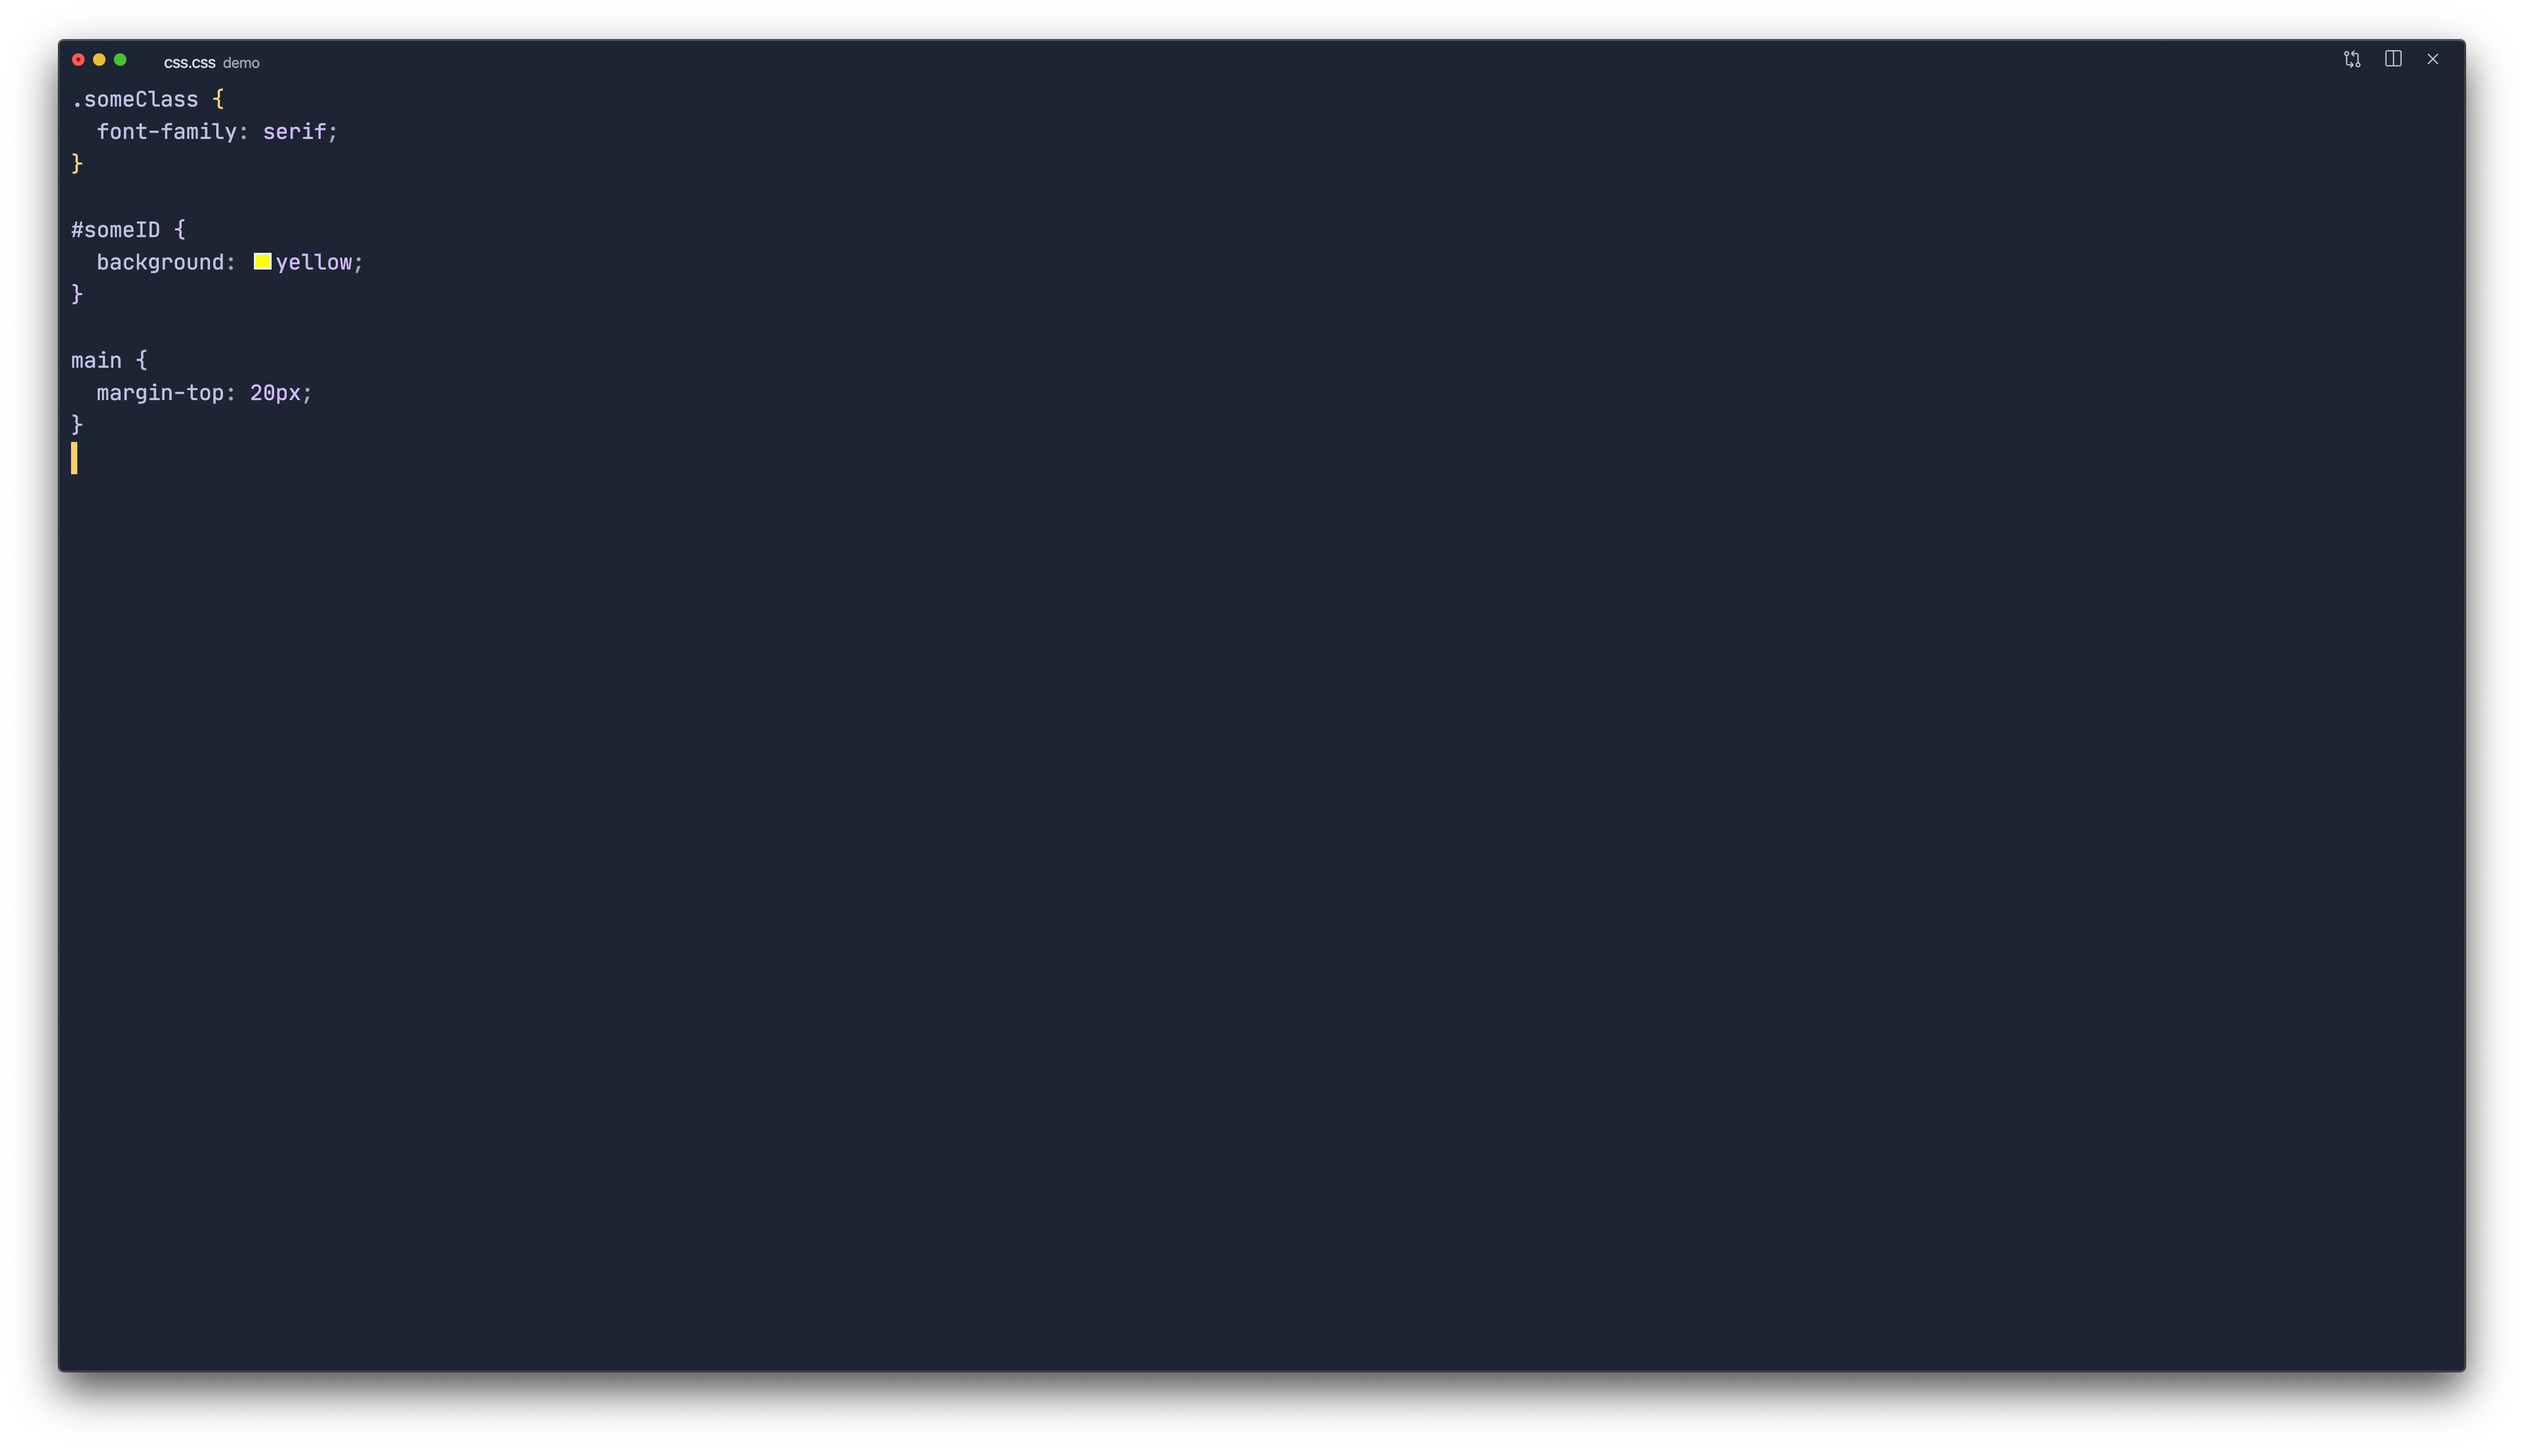
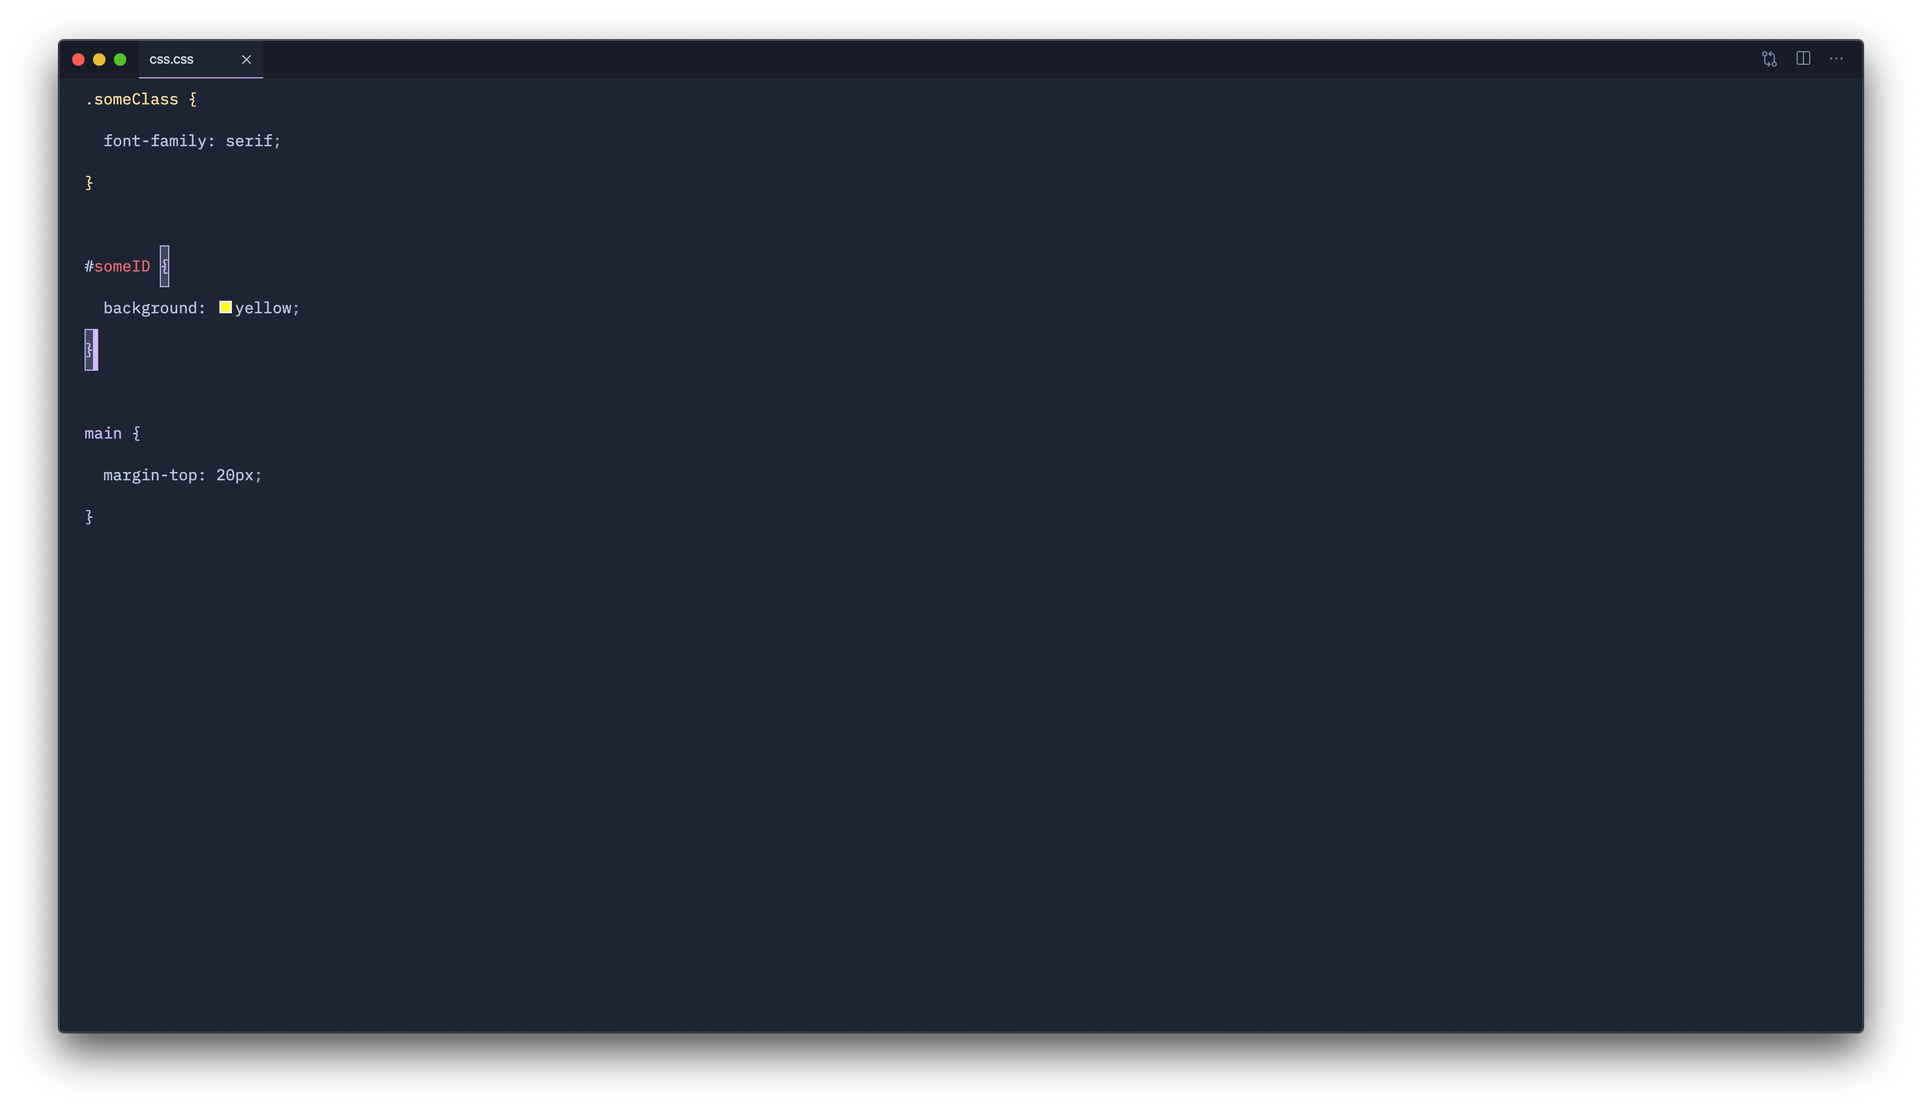
1.5.3

Changed region(s): [[0.0, 0.0, 1.0, 0.9934], [0.0625, 0.4036, 0.125, 0.4346]]

diff --git a/demo/statelessfunctionalreact.js b/demo/statelessfunctionalreact.js
@@ -1,21 +1,25 @@
 // I use this syntax when my component fits on one line
-const ListItem = props => <li className="list-item">{props.item.name}</li>
+const ListItem = (props) => <li className="list-item">{props.item.name}</li>;
 
 // I use this when my component has no logic outside JSX
 const List = ({ items }) => (
-  <ul className="list">{items.map(item => <ListItem item={item} />)}</ul>
-)
+  <ul className="list">
+    {items.map((item) => (
+      <ListItem item={item} />
+    ))}
+  </ul>
+);
 
 // I use this when the component needs logic outside JSX.
-const Body = props => {
-  let items = transformItems(props.rawItems)
+const Body = (props) => {
+  let items = transformItems(props.rawItems);
   return (
     <div>
       <h1>{props.header}</h1>
       <List items={items} />
     </div>
-  )
-}
+  );
+};
 
 // This is equivalent to the last example
 function Page(props, context) {
@@ -23,9 +27,9 @@ function Page(props, context) {
     <div>
       <Body header="My List" rawItems={props.rawItems} />
     </div>
-  )
+  );
 }
 // propTypes and contextTypes are supported
 Page.propTypes = {
-  rawItems: React.PropTypes.array.isRequired
-}
+  rawItems: React.PropTypes.array.isRequired,
+};

diff --git a/demo/react.js b/demo/react.js
@@ -1,8 +1,8 @@
-import React, { useState, useCallback } from 'react';
-import calculate from '../logic/calculate';
-import './App.css';
-import ButtonPanel from './ButtonPanel';
-import Display from './Display';
+import React, { useState, useCallback } from "react";
+import calculate from "../logic/calculate";
+import "./App.css";
+import ButtonPanel from "./ButtonPanel";
+import Display from "./Display";
 
 function App() {
   const [state, setState] = useState({
@@ -12,16 +12,16 @@ function App() {
   });
 
   const handleClick = useCallback(
-    buttonName => {
-      setState(state => calculate(state, buttonName));
+    (buttonName) => {
+      setState((state) => calculate(state, buttonName));
     },
-    [setState],
+    [setState]
   );
 
   return (
     <div className="component-app">
       Tacos
-      <Display value={state.next || state.total || '0'} />
+      <Display value={state.next || state.total || "0"} />
       <ButtonPanel clickHandler={handleClick} />
     </div>
   );

diff --git a/demo/html.html b/demo/html.html
@@ -3,8 +3,14 @@
 
 <head>
   <meta charset="UTF-8">
-  <meta name="viewport" content="width=device-width, initial-scale=1.0">
-  <meta http-equiv="X-UA-Compatible" content="ie=edge">
+  <meta
+    name="viewport"
+    content="width=device-width, initial-scale=1.0"
+  >
+  <meta
+    http-equiv="X-UA-Compatible"
+    content="ie=edge"
+  >
   <title>Document</title>
 </head>
 

diff --git a/README.md b/README.md
@@ -5,7 +5,10 @@ Subtlety with bright highlights
 ## Screenshots
 
 ![React](https://raw.githubusercontent.com/cevr/aeon/master/screenshots/react.png)
+![React Italic](https://raw.githubusercontent.com/cevr/aeon/master/screenshots/react-italic.png)
 
 ![HTML](https://raw.githubusercontent.com/cevr/aeon/master/screenshots/html.png)
+![HTML Italic](https://raw.githubusercontent.com/cevr/aeon/master/screenshots/html-italic.png)
 
-![Css](https://raw.githubusercontent.com/cevr/aeon/master/screenshots/css.png)
+![CSS](https://raw.githubusercontent.com/cevr/aeon/master/screenshots/css.png)
+![CSS Italic](https://raw.githubusercontent.com/cevr/aeon/master/screenshots/css-italic.png)

diff --git a/CHANGELOG.md b/CHANGELOG.md
@@ -2,6 +2,11 @@
 
 All notable changes to the "overnight" extension will be documented in this file.
 
+## [1.5.3]
+
+- update screenshots
+- tweak css token colors
+
 ## [1.5.2]
 
 - Tweak editorOverviewRuler colors
